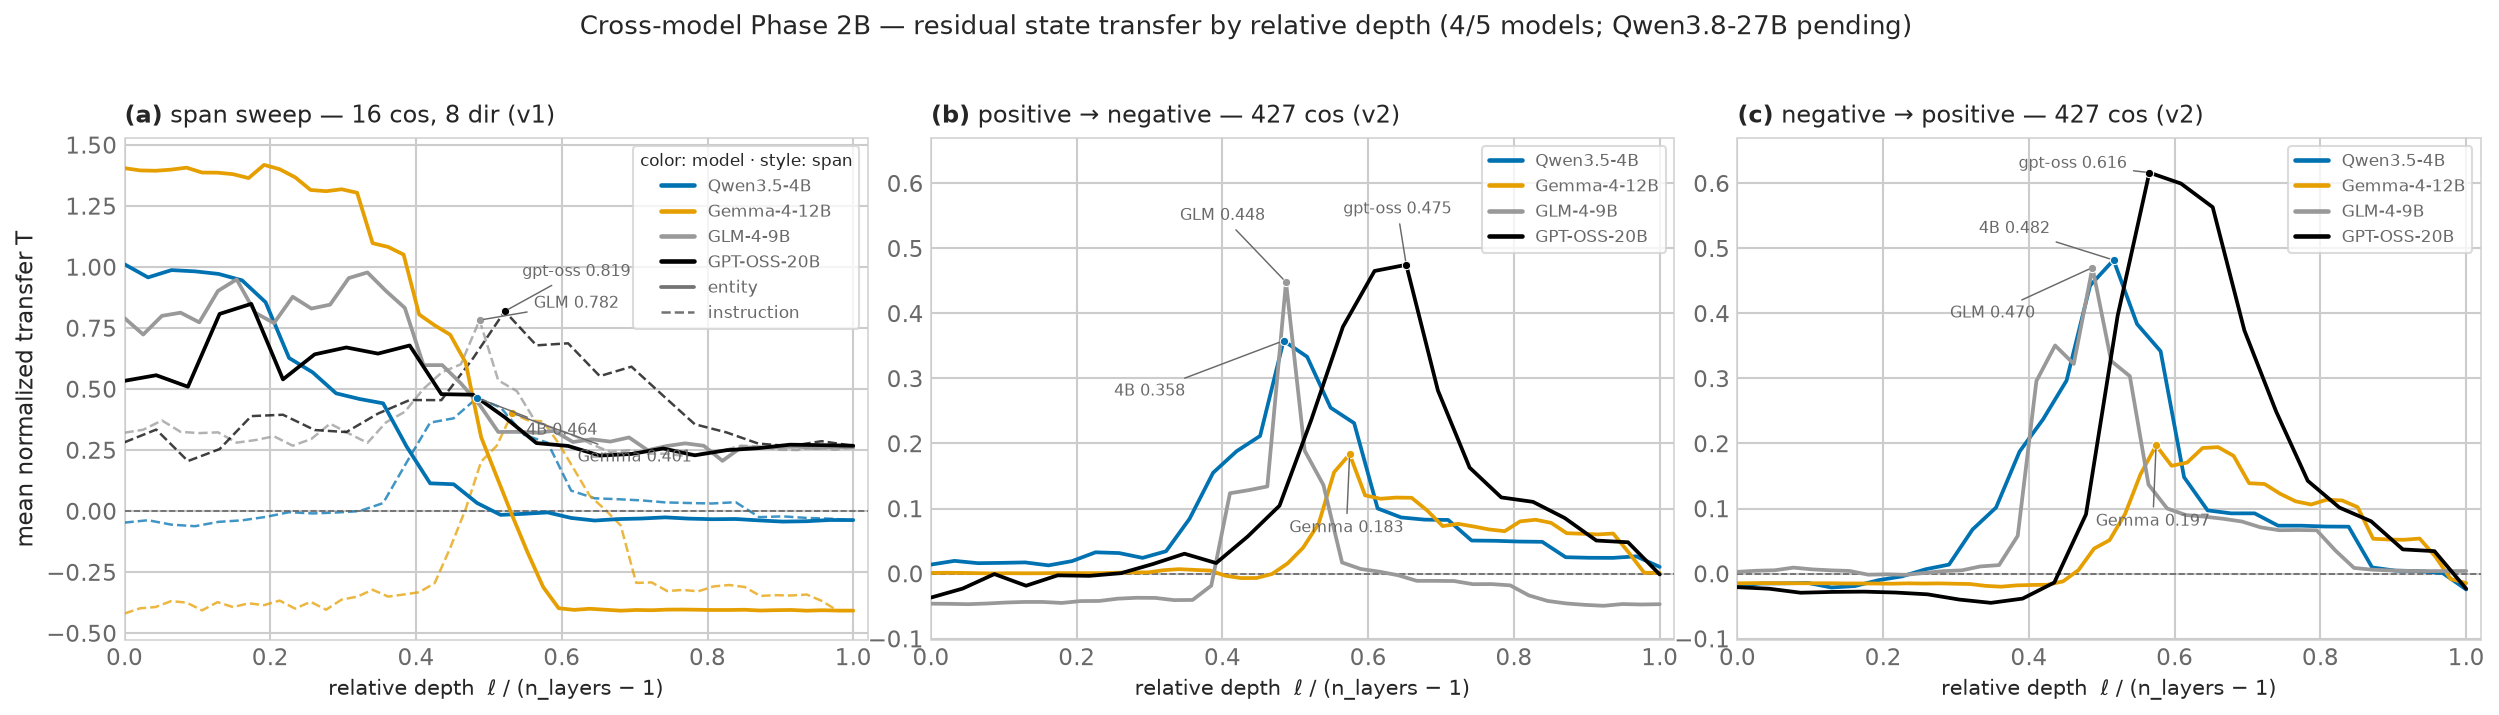
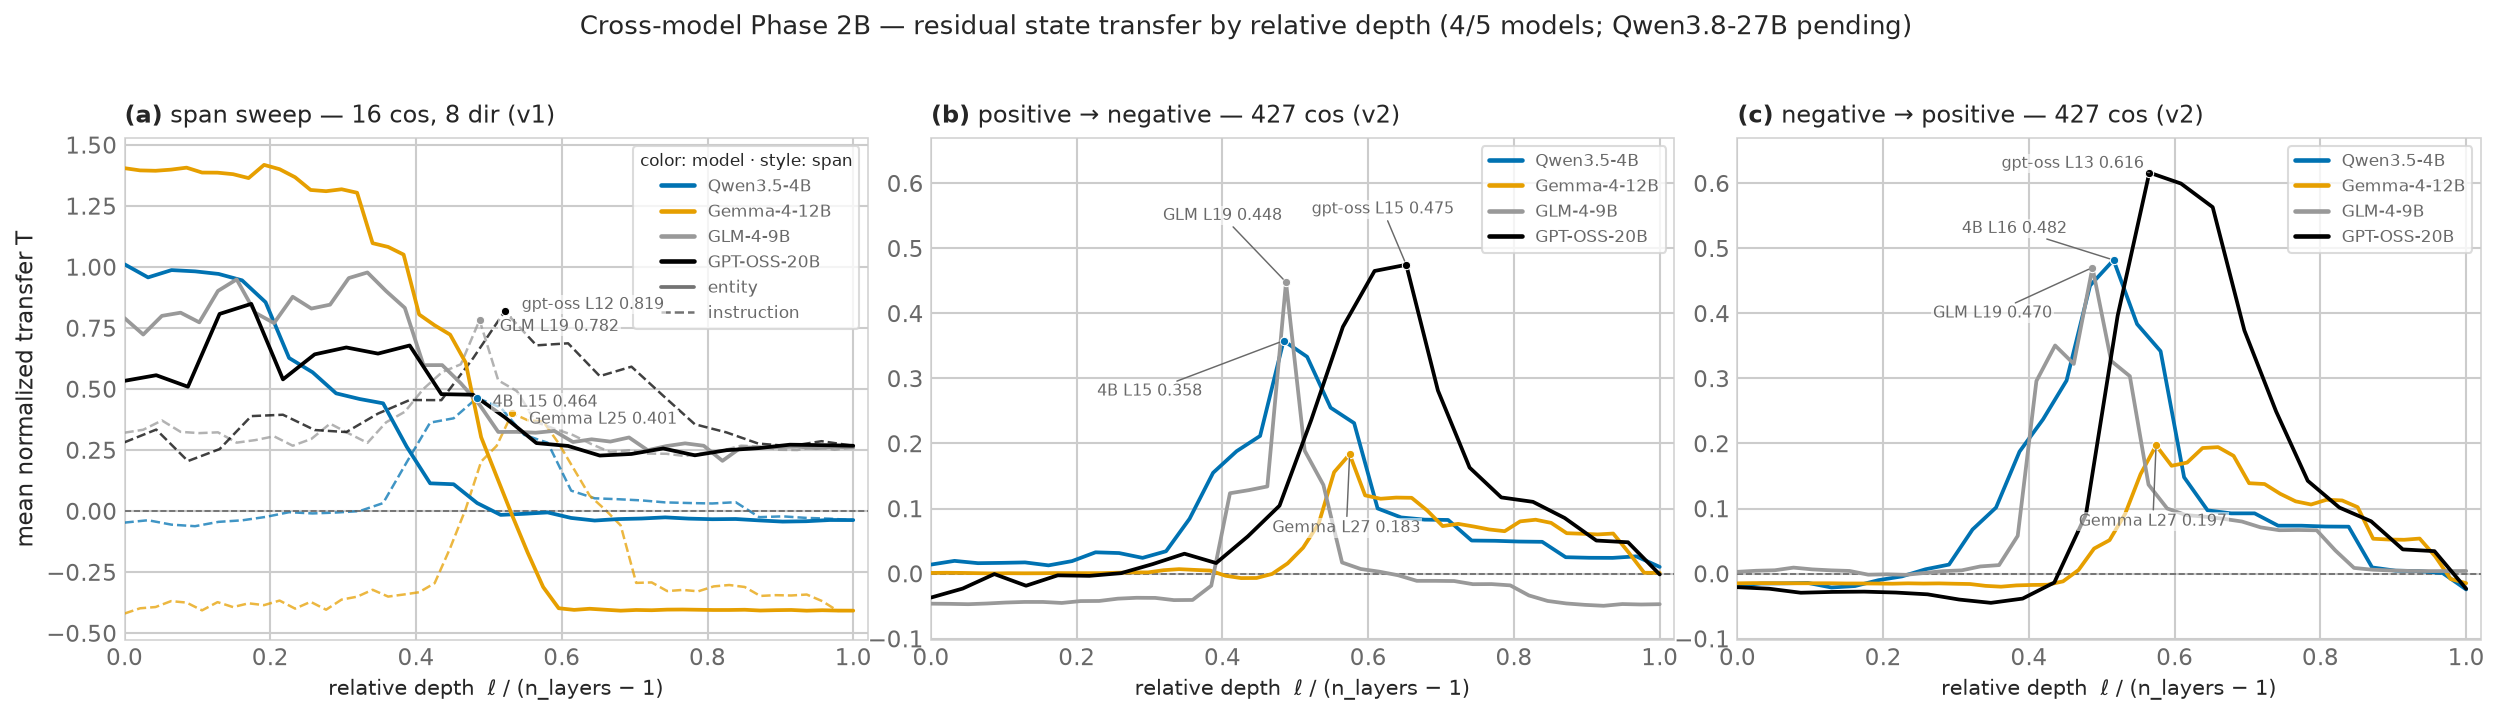
fix(plots): add layer index to peak labels; drop arrows from panel (a) (span-comparison purpose), white halo behind labels

diff --git a/scripts/plot_crossmodel_span_direction.py b/scripts/plot_crossmodel_span_direction.py
@@ -164,50 +164,53 @@ def main():
                   loc="upper right", fontsize=8,
                   frameon=True, facecolor="white", framealpha=0.8, edgecolor="lightgrey", labelcolor="dimgrey")
 
-    # --- peak annotations: marker + arrow + short label, anchored on the data ---
-    # label positions (tx, ty) are hand-tuned per panel to avoid curves/legend;
+    # --- peak annotations: marker + short label; (a) has no arrows (its purpose
+    # is the entity-vs-instruction shape contrast), (b)/(c) use arrows ---
+    # label positions (tx, ty, ha) are hand-tuned per panel to avoid curves/legend;
     # unknown models fall back to directly above their peak.
-    def annotate_peaks(ax, peaks, offsets):
-        for name, (px, py) in peaks.items():
-            tx, ty = offsets.get(name, (px, py + 0.08))
+    def annotate_peaks(ax, peaks, offsets, arrows):
+        for name, (px, py, layer) in peaks.items():
+            tx, ty, ha = offsets.get(name, (px, py + 0.08, "center"))
             ax.scatter([px], [py], s=16, color=COLORS[name], edgecolors="white",
                        linewidths=0.5, zorder=5)
             ax.annotate(
-                f"{SHORT.get(name, name)} {py:.3f}", xy=(px, py), xytext=(tx, ty),
-                fontsize=7.5, color="dimgrey", ha="center", va="center", zorder=6,
-                arrowprops=dict(arrowstyle="-", color="dimgrey", lw=0.7, shrinkA=1, shrinkB=2),
+                f"{SHORT.get(name, name)} L{layer} {py:.3f}", xy=(px, py), xytext=(tx, ty),
+                fontsize=7.5, color="dimgrey", ha=ha, va="center", zorder=6,
+                bbox=dict(facecolor="white", alpha=0.6, edgecolor="none", pad=0.8),
+                arrowprops=None if not arrows else dict(
+                    arrowstyle="-", color="dimgrey", lw=0.7, shrinkA=1, shrinkB=2),
             )
 
-    peaks_a = {name: (ie / (n1 - 1), spans["instruction"][ie])
+    peaks_a = {name: (ie / (n1 - 1), spans["instruction"][ie], ie)
                for name, n1, spans, _, _ in rows
                for ie in [max(spans["instruction"], key=spans["instruction"].get)]}
     annotate_peaks(ax_a, peaks_a, {
-        "Qwen3.5-4B": (0.60, 0.33),
-        "Gemma-4-12B": (0.70, 0.22),
-        "GLM-4-9B": (0.62, 0.85),
-        "GPT-OSS-20B": (0.62, 0.98),
-    })
+        "Qwen3.5-4B": (0.505, 0.445, "left"),
+        "Gemma-4-12B": (0.555, 0.375, "left"),
+        "GLM-4-9B": (0.515, 0.755, "left"),
+        "GPT-OSS-20B": (0.545, 0.845, "left"),
+    }, arrows=False)
     for ax, g in ((ax_b, "posneg"), (ax_c, "negpos")):
         peaks = {}
         for name, _, _, n2, v2 in rows:
             m = v2[g][0]
             pk = int(np.nanargmax(m))
-            peaks[name] = (pk / (n2 - 1), m[pk])
+            peaks[name] = (pk / (n2 - 1), m[pk], pk)
         if g == "posneg":
             offsets = {
-                "Qwen3.5-4B": (0.30, 0.28),
-                "Gemma-4-12B": (0.57, 0.07),
-                "GLM-4-9B": (0.40, 0.55),
-                "GPT-OSS-20B": (0.64, 0.56),
+                "Qwen3.5-4B": (0.30, 0.28, "center"),
+                "Gemma-4-12B": (0.57, 0.07, "center"),
+                "GLM-4-9B": (0.40, 0.55, "center"),
+                "GPT-OSS-20B": (0.62, 0.56, "center"),
             }
         else:
             offsets = {
-                "Qwen3.5-4B": (0.38, 0.53),
-                "Gemma-4-12B": (0.57, 0.08),
-                "GLM-4-9B": (0.35, 0.40),
-                "GPT-OSS-20B": (0.46, 0.63),
+                "Qwen3.5-4B": (0.38, 0.53, "center"),
+                "Gemma-4-12B": (0.57, 0.08, "center"),
+                "GLM-4-9B": (0.35, 0.40, "center"),
+                "GPT-OSS-20B": (0.46, 0.63, "center"),
             }
-        annotate_peaks(ax, peaks, offsets)
+        annotate_peaks(ax, peaks, offsets, arrows=True)
 
     fig.suptitle(
         f"Cross-model Phase 2B — residual state transfer by relative depth "
